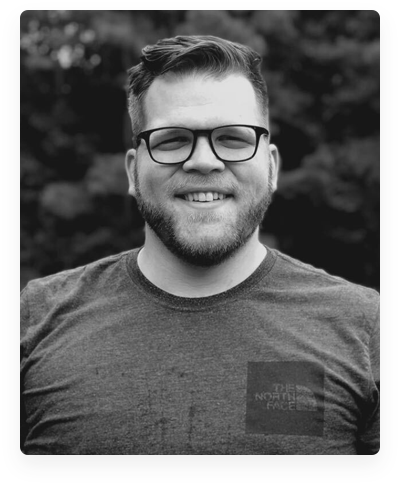
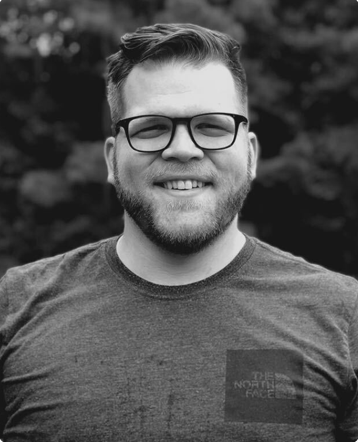
Who whe are

diff --git a/src/components/Map/TeamCard.js b/src/components/Map/TeamCard.js
@@ -1,49 +1,45 @@
-import React, { useEffect } from "react";
-import { Col, Container, Row } from "react-bootstrap";
-
+import React from "react";
+import { Col } from "react-bootstrap";
+import "./styles.css";
 const TeamCard = ({ title, name, imgDesktop, imgTablet, imgMobile }) => {
   return (
-    <div>
-      <Container className="cardMobile">
-        <Container fluid className="mx-sm-5 mx-3 my-5">
-          <Col xs="12">
-            <Container className="img-Team">
-              <img className="w-100% h-100%"src={imgMobile} />
-            </Container>
-            <div className=" mx-0 my-2">
-              <p className="title-Position mb-0">{title}</p>
-              <p className="name">{name}</p>
-            </div>
-          </Col>
-        </Container>
-      </Container>
-
-      <Container className="cardTablet">
-        <Container fluid className="mx-sm-5 mx-3 my-5">
-          <Col md="6">
-            <Container className="img-Team">
-              <img src={imgTablet} />
-            </Container>
-            <div className=" mx-0 mt-4 mb-5 containerName">
-              <p className="title-Position mb-0">{title}</p>
-              <p className="name mw-100">{name}</p>
-            </div>
-          </Col>
-        </Container>
-      </Container>
-
-      <Container className="cardDesktop">
-        <Col lg="4">
-          <Container className="img-Team">
-            <img src={imgDesktop} />
-          </Container>
-          <div className=" mx-0 mt-4 mb-5 containerName">
+    <Col xs={12} md={6} lg={4}>
+      <div className="cardMobile mt-4">
+        <div>
+          <div className="img-Team">
+            <img src={imgDesktop} className="img-fluid" />
+          </div>
+          <div className=" mx-0 mt-3  containerName">
             <p className="title-Position mb-0">{title}</p>
             <p className="name mw-100">{name}</p>
           </div>
-        </Col>
-      </Container>
-    </div>
+        </div>
+      </div>
+
+      <div className="cardTablet">
+        <div>
+          <div className="img-Team">
+            <img src={imgDesktop} className="img-fluid" />
+          </div>
+          <div className=" mx-0 mt-3  containerName">
+            <p className="title-Position mb-0">{title}</p>
+            <p className="name mw-100">{name}</p>
+          </div>
+        </div>
+      </div>
+
+      <div className="cardDesktop ">
+        <div>
+          <div className="img-Team">
+            <img src={imgDesktop} className="img-fluid" />
+          </div>
+          <div className=" mx-0 mt-3  containerName">
+            <p className="title-Position mb-0">{title}</p>
+            <p className="name mw-100">{name}</p>
+          </div>
+        </div>
+      </div>
+    </Col>
   );
 };
 export default TeamCard;

diff --git a/src/pages/Who-We-Are.js b/src/pages/Who-We-Are.js
@@ -4,6 +4,7 @@ import Layout from "../components/layout";
 import TeamCard from "../components/Map/TeamCard";
 import OneSizeDoesNotFill from "../components/OneSizeDoesNotFit/OneSizeDoesNotFill";
 import WereHirin from "../components/WereHiring/WereHiring";
+import "../components/who-whe-are.css";
 const team = [
   {
     name: "Fernando Higuera",
@@ -31,18 +32,20 @@ export default function WhoWeAre() {
   return (
     <Layout>
       <Container fluid className="bg-white px-0">
-        <Row className="align-items-center">
-          <Col xs="12" sm="12">
-            <Row className="align-items-center">
-              <Col>
-                <p className="WhoTitle">Team Advanced Mankind.</p>
-              </Col>
-            </Row>
-            <p className="who-p mx-sm-5 mx-3">
-              Create tomorrow’s interfaces from across the globe.
-            </p>
-          </Col>
-        </Row>
+        <Container>
+          <Row className="align-items-center text-center">
+            <Col xs="12" sm="12">
+              <Row className="align-items-center">
+                <Col>
+                  <p className="WhoTitle">Team Advanced Mankind.</p>
+                </Col>
+              </Row>
+              <p className="who-p mx-sm-5 mx-3">
+                Create tomorrow’s interfaces from across the globe.
+              </p>
+            </Col>
+          </Row>
+        </Container>
         <OneSizeDoesNotFill
           firstTitle={"One Size Does Not Fit All"}
           secondTitle={"It’s Time for Tomorrow’s Technology"}
@@ -57,20 +60,22 @@ export default function WhoWeAre() {
       <Container className="my-sm-5 my-5">
         <p className="WhoTitle">Our Team</p>
       </Container>
-      <Row>
-        {team.map((pp, index) => {
-          return (
-            <TeamCard
-              key={index}
-              title={pp.title}
-              name={pp.name}
-              imgDesktop={pp.imgDesktop}
-              imgTablet={pp.imgTablet}
-              imgMobile={pp.imgMobile}
-            />
-          );
-        })}
-      </Row>
+      <Container className="my-5">
+        <Row>
+          {team.map((pp, index) => {
+            return (
+              <TeamCard
+                key={index}
+                title={pp.title}
+                name={pp.name}
+                imgDesktop={pp.imgDesktop}
+                imgTablet={pp.imgTablet}
+                imgMobile={pp.imgMobile}
+              />
+            );
+          })}
+        </Row>
+      </Container>
       <WereHirin />
     </Layout>
   );

diff --git a/src/components/Map/styles.css b/src/components/Map/styles.css
@@ -1,17 +1,10 @@
-@import url('https://fonts.googleapis.com/css2?family=Open+Sans:ital,wght@0,300;0,400;0,600;0,700;0,800;1,300;1,400;1,600;1,700;1,800&display=swap');
+@import url("https://fonts.googleapis.com/css2?family=Open+Sans:ital,wght@0,300;0,400;0,600;0,700;0,800;1,300;1,400;1,600;1,700;1,800&display=swap");
 .bg-blue {
   border-radius: 10px;
   background-color: #3333ff;
   box-shadow: 0 10px 20px 0 rgba(35, 35, 35, 0.08);
 }
-.WhoTitle {
-  font-family: "Open Sans";
-  font-size: 36px;
-  font-weight: bold;
-  letter-spacing: 0;
-  line-height: 48px;
-  text-align: center;
-}
+
 .who-p {
   font-family: "Open Sans";
   font-size: 15px;
@@ -90,36 +83,29 @@
   text-align: center;
 }
 .img-Team {
-  height: 360px;
-  width: 327px;
+  min-height: 357px;
   border: 1px solid #fbfbfb;
   border-radius: 8px;
-  background-color: white;
+  background-color: #ffffff;
   box-shadow: 0 10px 20px 0 rgba(35, 35, 35, 0.08);
 }
-.img-Container {
-  position: relative;
-  height: 300px;
-  max-width: 327px;
+.img-Team img {
   border-radius: 8px;
-  margin-left: 15px;
 }
-.title-Position{
-  color:#3333FF;
+
+.title-Position {
+  color: #3333ff;
   font-family: "Open Sans";
   font-size: 12px;
   font-weight: bold;
   line-height: 16px;
 }
-.name{
-  color:#222B45;
+.name {
+  color: #222b45;
   font-family: "Open Sans";
   font-size: 18px;
   font-weight: bold;
   line-height: 24px;
-}
-.containerName{
-  width: 200px;
 }
 
 .cardMobile {
@@ -133,14 +119,10 @@
 .cardDesktop {
   display: none;
 }
+
 @media (min-width: 768px) {
   .img-Team {
     height: 428px;
-    width: 346px;
-    border: 1px solid #fbfbfb;
-    border-radius: 8px;
-    background-color: white;
-    box-shadow: 0 10px 20px 0 rgba(35, 35, 35, 0.08);
   }
   .cardMobile {
     display: none;
@@ -167,13 +149,5 @@
     width: 100%;
     height: 563px;
     max-width: 100%;
-  }
-  .img-Team {
-    height: 445px;
-    width: 360px;
-    border: 1px solid #fbfbfb;
-    border-radius: 8px;
-    background-color: white;
-    box-shadow: 0 10px 20px 0 rgba(35, 35, 35, 0.08);
   }
 }

diff --git a/src/components/who-whe-are.css b/src/components/who-whe-are.css
@@ -1,0 +1,8 @@
+.WhoTitle {
+  color: #222b45;
+  font-family: "Open Sans";
+  font-size: 36px;
+  font-weight: bold;
+  letter-spacing: 0;
+  line-height: 48px;
+}
